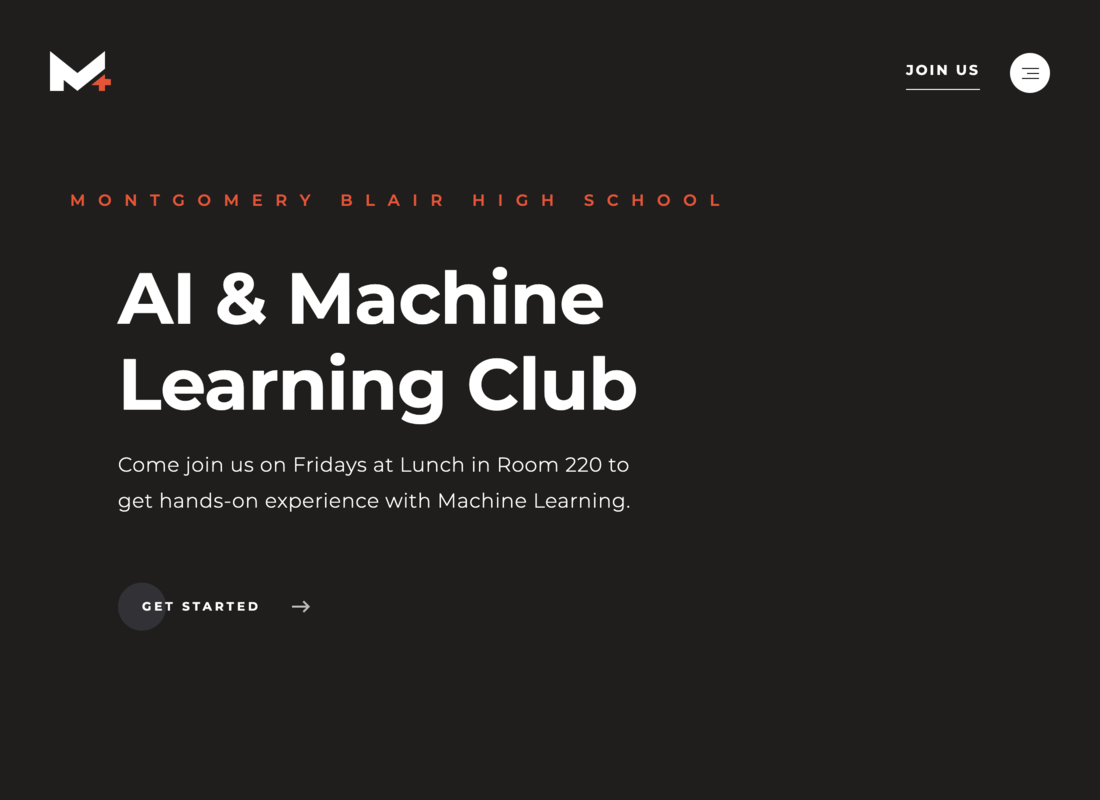
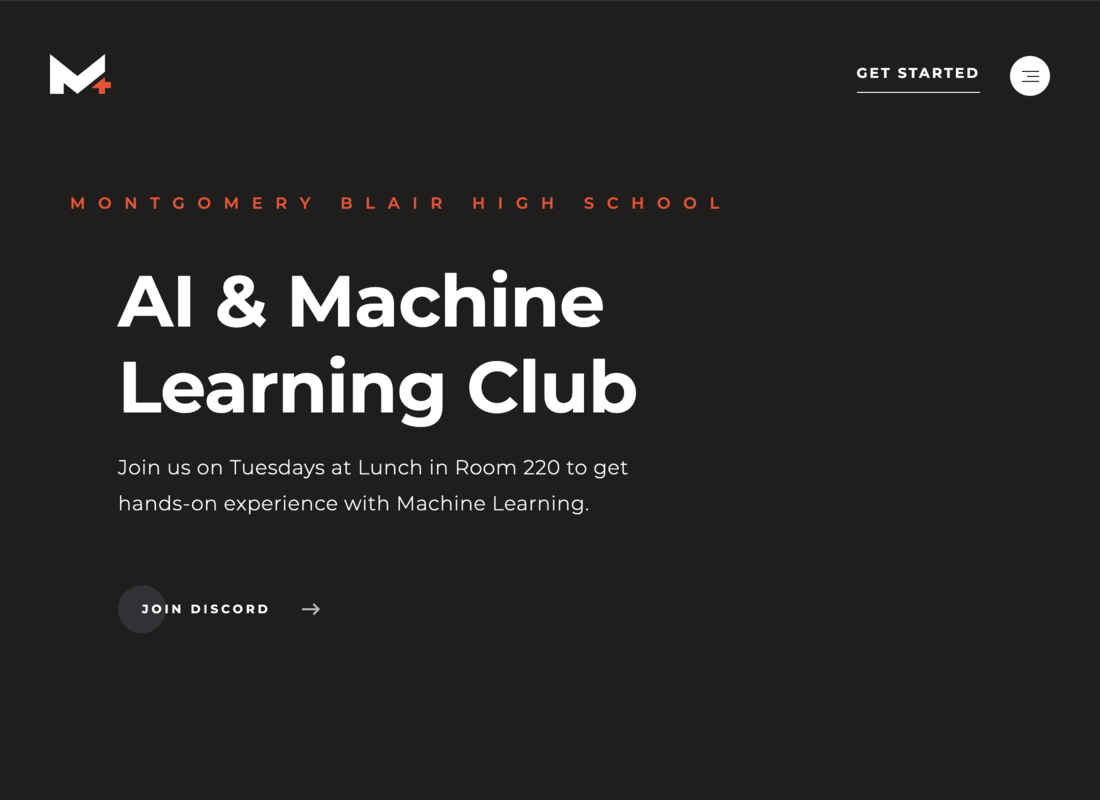
changed CTA's

diff --git a/src/components/Footer/index.js b/src/components/Footer/index.js
@@ -50,11 +50,11 @@ function Footer() {
               <div className="footer__left">
                 <Link
                   to={{ pathname: '/', hash: '#intro' }}
-                  aria-label="Fridays at Lunch in Room 220"
+                  aria-label="Tuesdays at Lunch in Room 220"
                 >
                   <Icon icon="logo" />
                 </Link>
-                <Paragraph>Fridays at Lunch | Room 220</Paragraph>
+                <Paragraph>Tuesdays at Lunch | Room 220</Paragraph>
                 <h4>&copy; {new Date().getFullYear()} MBHS ML Club</h4>
                 <Socials className="footer__socials" dark />
               </div>

diff --git a/src/pages/Home/Intro.js b/src/pages/Home/Intro.js
@@ -13,10 +13,10 @@ function Intro(props) {
       dark
       label="Montgomery Blair High School"
       title="AI & Machine Learning Club"
-      paragraph="Come join us on Fridays at Lunch in Room 220 to get hands-on experience with Machine Learning."
+      paragraph="Join us on Tuesdays at Lunch in Room 220 to get hands-on experience with Machine Learning."
       button={{
         href: "https://discord.gg/Usz9UXbQNy",
-        label: 'Get Started',
+        label: 'Join Discord',
         onClick,
       }}
       {...props}

diff --git a/src/pages/GetStarted.js b/src/pages/GetStarted.js
@@ -11,12 +11,12 @@ function GetStarted(props) {
     <Hero
       center
       accent={accent}
-      label="Get Started"
+      label="Join Us"
       title2="Ready to Learn?"
       button={{
         accent,
         href: 'https://discord.gg/Usz9UXbQNy',
-        label: 'Join Discord',
+        label: 'Get Started',
         onClick,
       }}
       {...rest}

diff --git a/src/components/Header/index.js b/src/components/Header/index.js
@@ -45,7 +45,7 @@ const Header = ({ dark }) => {
           className="header__cta"
           href='https://discord.gg/Usz9UXbQNy'
         >
-          Join Discord
+          Get Started
         </a>
         <NavToggle dark={isDark} menuOpen={menuOpen} />
       </div>
